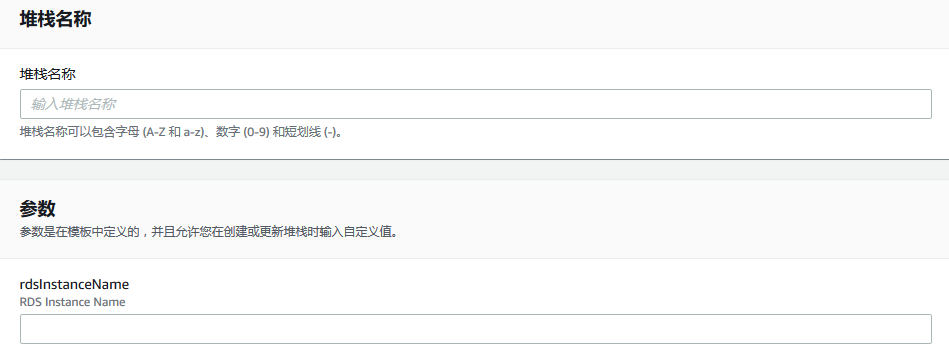
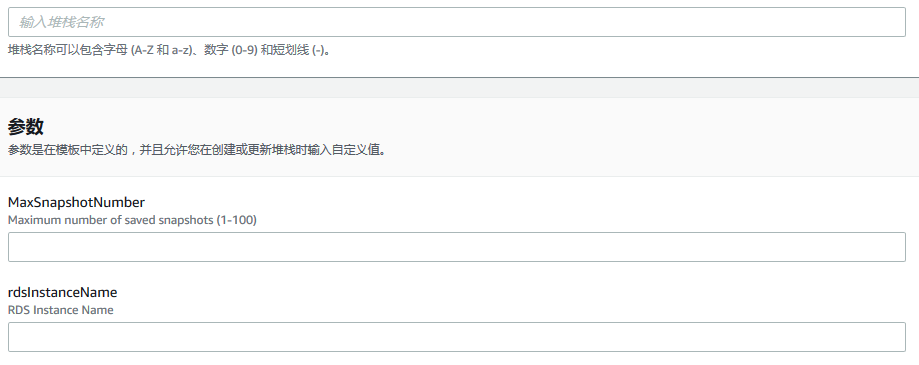
third upload

diff --git a/README.md b/README.md
@@ -1,6 +1,6 @@
 # RDS定时备份
 
-本脚本自动创建一个lambda以及相关资源，使得能够自动对指定RDS每隔两小时备份一次，最大保存24份备份 (48小时)。
+本脚本自动创建一个lambda以及相关资源，使得能够自动对指定RDS每隔两小时备份一次。
 
 您可以通过点击下方 **Quick Start** 链接直接进入创建页面。
 
@@ -21,7 +21,10 @@
 - 在 **指定模板** 页面上，保留模板 URL 的默认设置，然后选择 **下一步** 。
 ![](https://raw.githubusercontent.com/fanyizhe/rds-backup/master/CFN_template.png)
 
-- 在 **指定堆栈详细信息** 页面上，填写堆栈名称以及您想应用该脚本的RDS实例名称，完成后选择 **下一步**
+- 在 **指定堆栈详细信息** 页面上，填写堆栈名称、您想应用该脚本的RDS实例名称,以及您想保存最大的副本数量(最大100)，完成后选择 **下一步**
+
+    - rdsInstanceName: 您想应用该脚本的RDS实例名称
+    - MaxSnapshotNumber: 您想保存最大的副本数量(最大100)
 
 ![](https://raw.githubusercontent.com/fanyizhe/rds-backup/master/specifyInfo.png)
 
@@ -36,23 +39,11 @@
 
 ![](https://raw.githubusercontent.com/fanyizhe/rds-backup/master/create_complete.png)
 
-## （可选）自定义修改备份数量以及时间
+## （可选）自定义修改备份时间
 
-该脚本默认自动创建备份的时间为2小时，最大保存的备份数量为24。
+该脚本默认自动创建备份的时间为2小时。
 
-若您希望对最大保存的备份数量以及自动备份的时间进行自定义修改的话，可以通过修改该脚本创建的lambda函数来实现，具体操作如下：
-
-### 修改最大暂存的备份数量
-
-- 在该cloudformation的 **资源** 选项中点击类型为 **AWS::Lambda::Function** 的实体ID链接，进入该lambda函数界面。
-
-![](https://raw.githubusercontent.com/fanyizhe/rds-backup/master/CFN_lambda.png)
-
-- 在 **函数代码** 界面修改 index.py 中第三行 MAX_SNAPSHOTS 的数值，完成后点击 **保存** 。
-
-![](https://raw.githubusercontent.com/fanyizhe/rds-backup/master/lambda_code.png)
-
-### 修改自动备份的时间
+若您希望对自动备份的时间进行自定义修改的话，具体操作如下：
 
 - 在该cloudformation的 **资源** 选项中点击类型为 **AWS::Lambda::Function** 的实体ID链接，进入该lambda函数界面。
 
